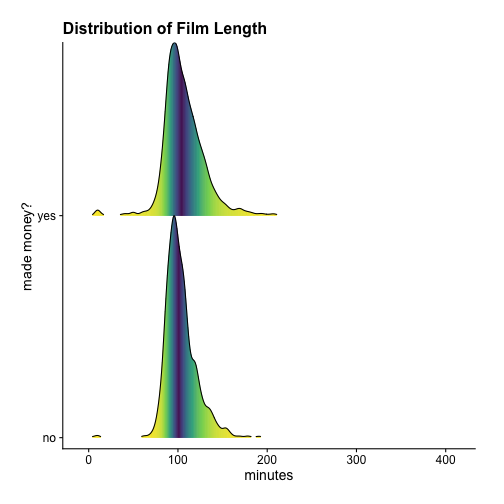
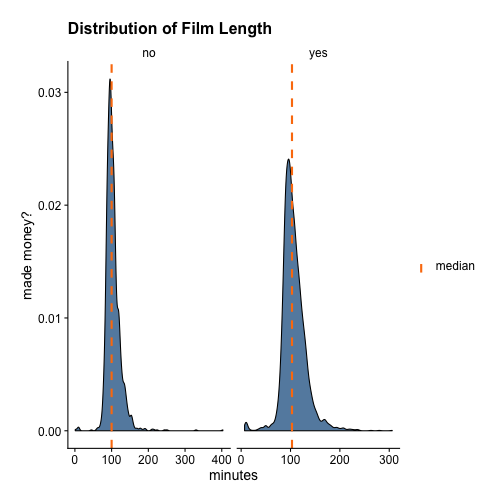
replace mk_densityplot() with mk_histdens() in 03-02

Changed region(s): [[0.0298, 0.0298, 0.9226, 0.9524], [0.8631, 0.506, 0.9524, 0.5357], [0.5952, 0.0893, 0.6548, 0.119]]

diff --git a/manuscript/03-02-densityplot.md b/manuscript/03-02-densityplot.md
@@ -1,61 +1,35 @@
 ## Density Plot
 
-Previously, we learned how to make histograms using `mk_histogram()`. 
-Density plot is similar to histogram except it draws a smooth curve tracing out 
-the hights of the bins instead of drawing the bins themselves. 
-To make a density plot, we use the function `mk_densityplot()`. 
+Previously, we learned how to make histograms. Density plot is similar to histogram except it draws a smooth curve tracing out the hights of the bins instead of drawing the bins themselves. The `films` dataset has a variable `length` that measures the duration of each film in minutes. Let's draw a density plot to show its distribution. 
 
-The `films` dataset has a variable `length` that measures the duration of each 
-film in minutes. Let's draw a density plot to show its distribution. 
-
-A>
 ```r
 library(ezplot)
-plt = mk_densityplot(films)
-p = plt("length", cut_tail = 0) # cut_tail = 0 means not removing any tails
-p = add_labs(p, xlab = "minutes", title = "Distribution of Film Length")
-print(p)
+plt = mk_histdens(films, type = 'density') # there're 2 possibilities for type: 'histogram' and 'density', which will allow us to draw histogram or density plot respectively.
+p = plt("length")
+add_labs(p, xlab = "minutes", title = "Distribution of Film Length")
 ```
 
 ![Distribution of Film Length](images/density_length-1.png)
 
-We can also draw two density curves of `length`, one for profitable films, 
-and the other for unprofitable films.
+We can also draw two density curves of `length`, one for profitable films and one for unprofitable films, by setting `facet_by = "made_money"`, where `"made_money"` is the name of a categorical variable indicating if a film made money or not.
 
-A>
 ```r
-p = plt(xvar = "length", yvar = "made_money") # remove tails <= 0.5% by default
-p = add_labs(p, xlab = "minutes", ylab = "made money?",
-             title = "Distribution of Film Length")
-print(p)
+p = plt(xvar = "length", facet_by = "made_money", facet_ncol = 2,
+        add_vline_mean = FALSE) 
+add_labs(p, xlab = "minutes", ylab = "made money?", 
+         title = "Distribution of Film Length")
 ```
 
 ![Distribution of Film Length by Two Groups](images/density_length_by_made_money-1.png)
 
-The resulting density plot has `length` on the x-axis and `made_money` on the
-y-axis, and this correpsonds to how we specified xvar and yvar in `plt()`. Yes,
-what you specify is what you get. This is very intuitive. Let's see another
-example. Let's plot the density of `rating` by `year_cat`.
+As another example, let's plot the density of `rating` by `year_cat`.
 
-A>
 ```r
-plt("rating", "year_cat", font_size = 9) 
+plt("rating", facet_by = "year_cat", font_size = 9, add_vline_mean = FALSE) 
 ```
 
 ![Distribution of Film Length by Years](images/density_rating_by_year_cat-1.png)
 
-But the y variable must be character or factor type, and it cannot be integer
-or numeric. For example, `year` is of integer type, and if we try to plot the
-density of `rating` by `year`, it'll throw an error.
 
-A>
-```r
-plt("rating", "year") # throws error when yvar is integer or numeric
-```
-A>
-```
-Error in plt("rating", "year"): The y variable, year, is integer or numeric. Change to factor or character.
-```
-
-For homework, read the document of `mk_densityplot()` and run the examples. 
-You can pull up the document by running `?mk_densityplot` in Rstudio. 
+For homework, read the document of `mk_histdens()` and run the examples. 
+You can pull up its document by running `?mk_densityplot`. 
